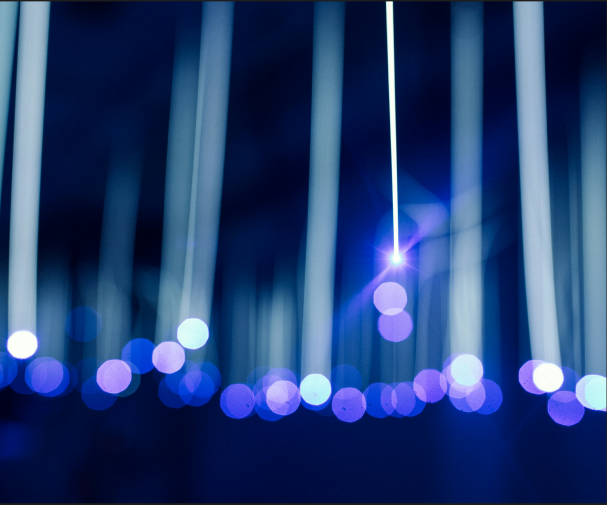
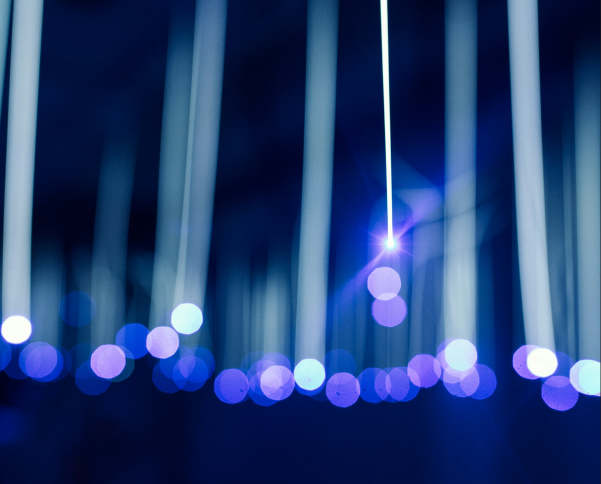
atualizações do css

diff --git a/index.html b/index.html
@@ -4,31 +4,39 @@
     <meta charset="UTF-8">
     <meta name="viewport" content="width=device-width, initial-scale=1.0">
     <title>My Clona -  Trainee Praxis</title>
+    <link rel="stylesheet" href="./myClona/assets/css/styles.css">
 </head>
 <body>
 <header>
     <nav>
-    <ul>
-        <li>MyClona</li>
+    <ul class="nav-bar">
+        <li id="my-clona"><strong>MyClona</strong></li>
+        <div class="nav-bar-buttons">
         <li><button>Serviços</button></li>
         <li><button>Home</button></li>
         <li><button>Equipe</button></li>
         <li><button>Login</button></li>
+        </div>
     </ul>
     </nav>
 </header>
 
-<img src="./myClona/assets/img/background.png" alt="imagem_de_fundo">
-
-<h1>The Future is here</h1>
-<p>Lorem ipsum dolor, sit amet consectetur adipisicing elit. Nobis excepturi animi officiis ratione itaque ab iste tempora, sit, doloremque nemo eligendi quod sed rem at adipisci soluta! Omnis, nisi doloremque!</p>
-<button>Subscribe</button>
-<ul>
+<div class="banner-principal">
+    <div class="texto-banner">
+    <h1>The Future is here</h1>
+    <p>Lorem ipsum dolor, sit amet consectetur adipisicing elit. Nobis excepturi animi officiis ratione itaque ab iste tempora, sit, doloremque nemo eligendi quod sed rem at adipisci soluta! Omnis, nisi doloremque!</p>
+    <button>Subscribe</button></div>
+    </div>
+    <div class="carrossel-area">
+    <ul class="carrossel">
     <li><img src="./myClona/assets/img/dna.png" alt="your dna"></li>
     <li><img src="./myClona/assets/img/quantum.png" alt="quantum"></li>
     <li><img src="./myClona/assets/img/strong-ai.png" alt="strong ai"></li>
     <li><img src="./myClona/assets/img/medicine.png" alt="medicine"></li>
-</ul>
+    </ul>
+    </div>
+</div>
+
 <section>
 <h2>A Solution</h2>
 <p>Lorem ipsum dolor sit amet, consectetur adipisicing elit. Eaque, eos, et quam saepe necessitatibus eius provident beatae voluptate numquam, accusantium perferendis sint similique impedit? Nisi nobis id suscipit repudiandae repellendus.</p>
@@ -50,4 +58,5 @@
 </footer>
 
 </body>
+<script src="./myClona/assets/js/script.js"></script>
 </html>

diff --git a/myClona/assets/css/styles.css b/myClona/assets/css/styles.css
@@ -1,0 +1,75 @@
+* {
+    padding: 0;
+    margin: 0;
+    font-family: poppins, sans-serif;
+}
+
+header {
+    background-color: #161616;
+    color: #FFFFFF;
+    border-bottom: #000000 2px solid;
+}
+
+.nav-bar {
+    background-color: #161616;
+    display: flex;
+    justify-content: space-between;
+    align-items: center;
+    padding: 10px 20px;
+    list-style: none;
+
+}
+
+.nav-bar .nav-bar-buttons {
+    background-color: #161616;
+    display: flex;
+    justify-content: space-between;
+    align-items: center;
+    padding: 0 2px;
+}
+
+.nav-bar .nav-bar-buttons button {
+    background-color: #161616;
+    font-size: 15px;
+    margin: 10px 20px;
+    background: none;
+    border: none;
+    color: #FFFFFF;
+    cursor: pointer;
+}
+
+#my-clona {
+    margin-left: 20px;
+    font-size: 20px;}
+
+body {
+    background-color: #000521;
+    color: #FFFFFF;
+}
+
+.banner-principal{
+    background: url(../img/background.png);
+    background-size: cover;
+    background-position: center;
+}
+
+.carrossel-area { 
+    position: relative;
+    max-width: 100%;
+    height: 300px;
+    overflow: hidden;
+}
+
+.carrossel {
+    display: flex;
+    justify-content: space-between;
+    align-items: center;
+    list-style: none;
+}
+
+.carrossel img {
+    width: 70%;
+    height: 70%;
+    margin: 10px 1px;
+    border-radius: 20px;
+}
